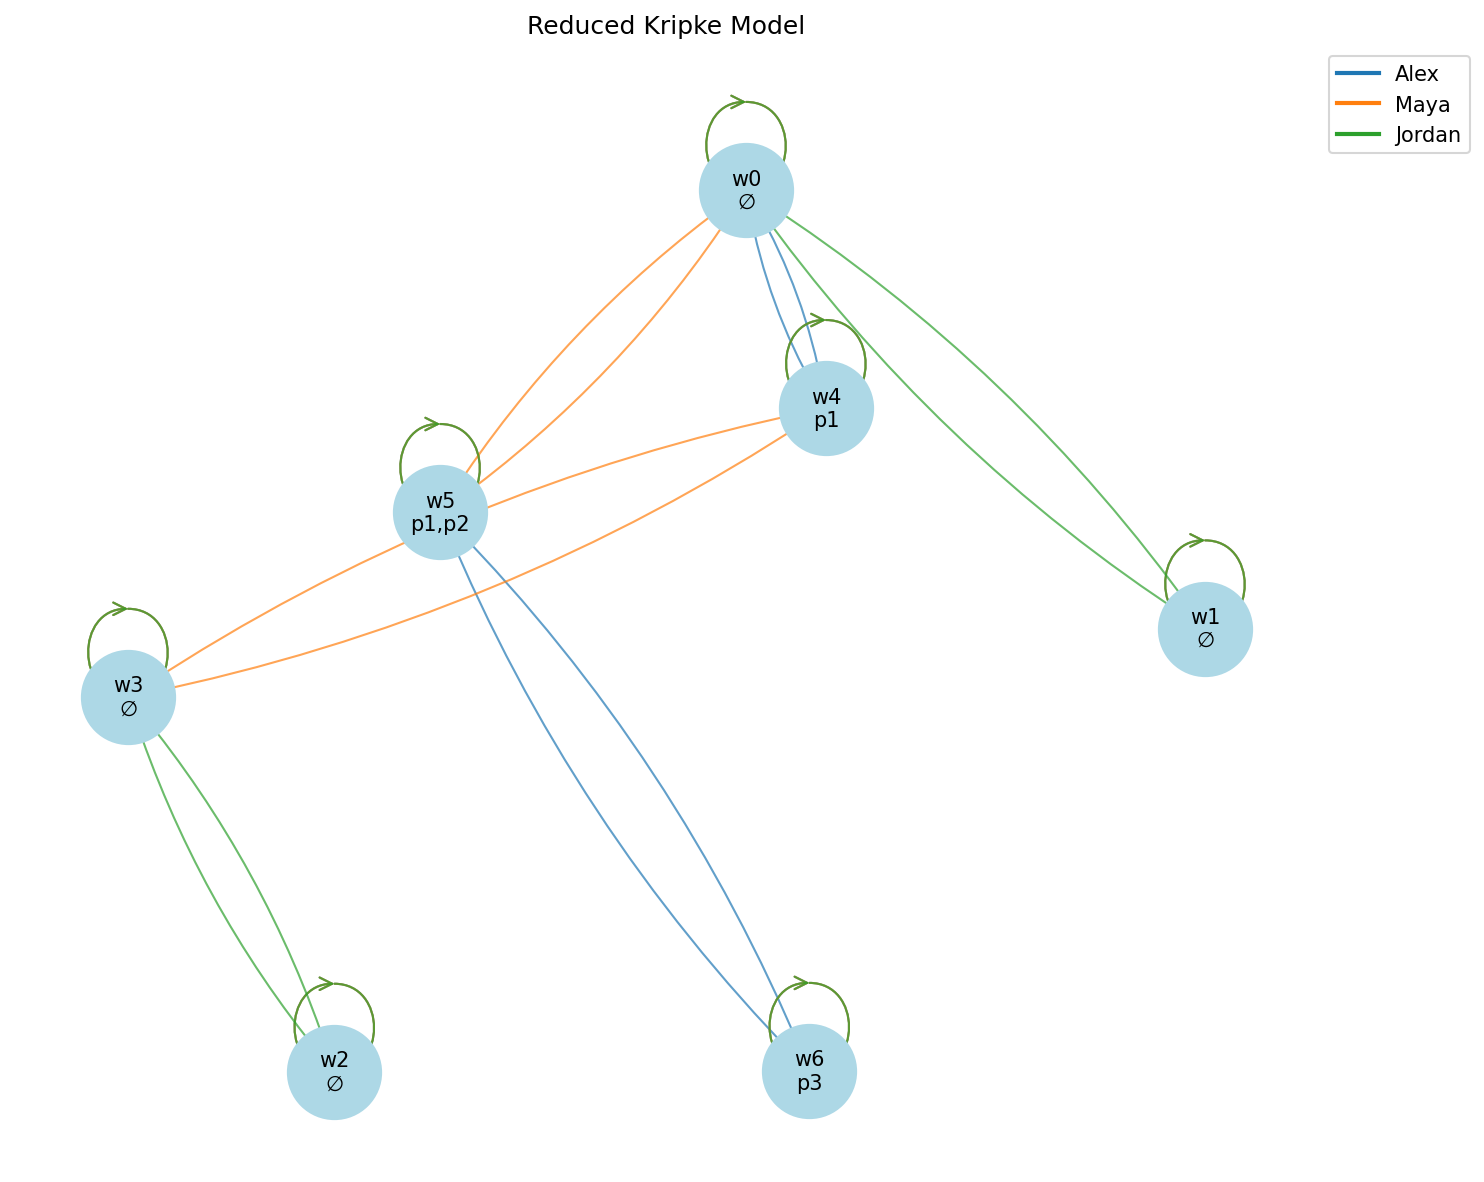
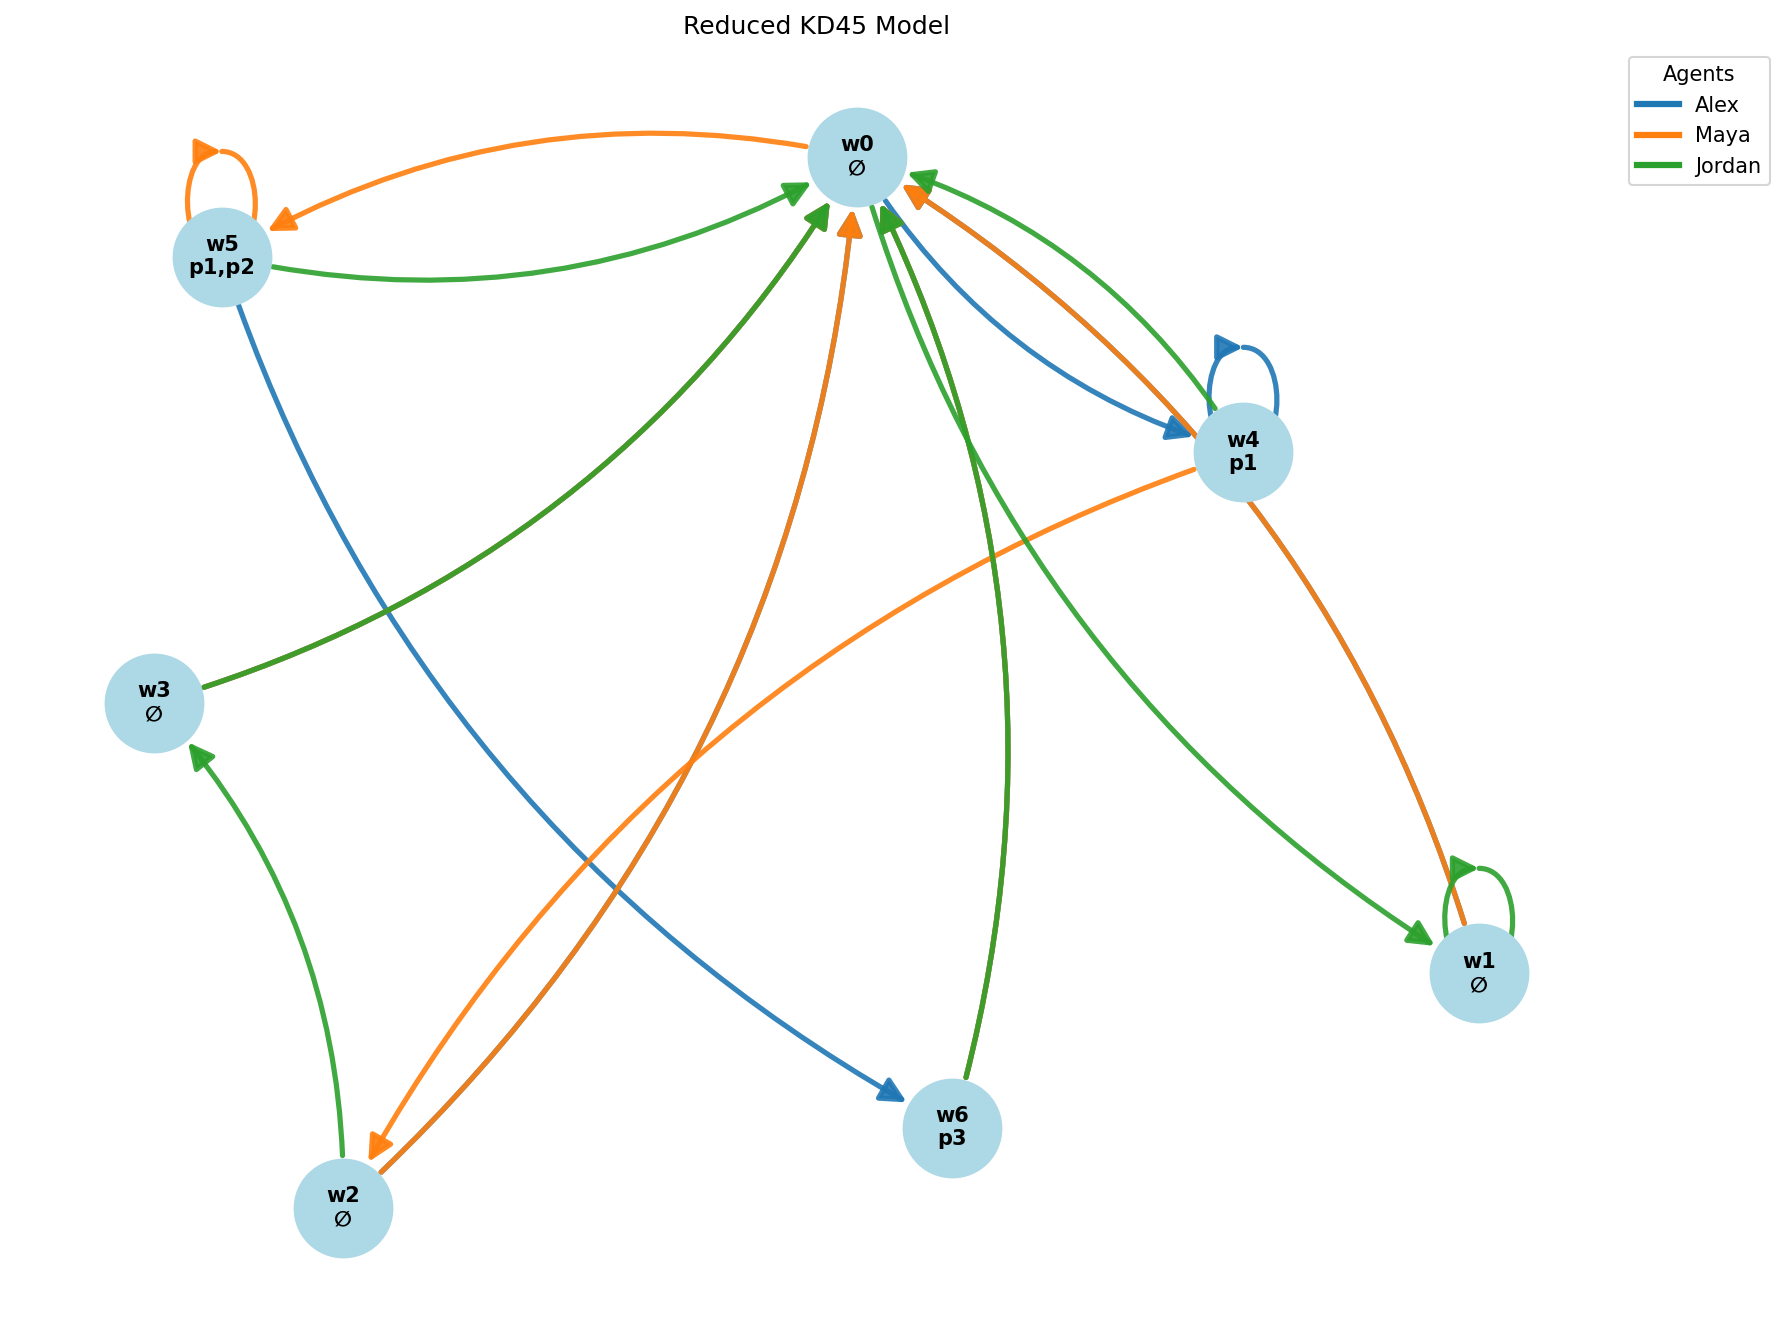
KD45 modification

diff --git a/kripke/model.py b/kripke/model.py
@@ -1,51 +1,74 @@
-from dataclasses import dataclass, field
-from typing import List, Set, Dict, Optional
-import itertools
+from dataclasses import dataclass
+from typing import List, Set, Dict
 
 @dataclass
 class KripkeModel:
-    worlds: List[int]                       
-    agents: List[str]                       
-    propositions: List[str]                 
-    relations: Dict[str, Set[tuple]]       
-    valuation: Dict[int, Set[int]]         
+    worlds: List[int]
+    agents: List[str]
+    propositions: List[str]
+    relations: Dict[str, Set[tuple]]
+    valuation: Dict[int, Set[int]]
+    enforce_frame: bool = True  
 
     def __post_init__(self):
-        self._enforce_s5()
+        if self.enforce_frame:
+            self._enforce_kd45()
 
-    def _enforce_s5(self):
+    def _enforce_kd45(self):
         for agent in self.agents:
-            rel = self.relations.get(agent, set())
-            
-            for w in self.worlds:
-                rel.add((w, w))
-            
-            symm = set((v, u) for (u, v) in rel)
-            rel.update(symm)
-            
-            closure = set(rel)
+            rel = set(self.relations.get(agent, set()))
+            all_worlds = set(self.worlds)
+
             while True:
-                new_pairs = set((u, w) for (u, v) in closure for (x, w) in closure if v == x)
-                if new_pairs.issubset(closure):
+                new_rel = set(rel)
+
+                for (u, v) in rel:
+                    for (x, w) in rel:
+                        if v == x:
+                            new_rel.add((u, w))
+
+                for (u, v) in rel:
+                    for (x, y) in rel:
+                        if u == x and v != y:
+                            new_rel.add((v, y))
+
+                if new_rel == rel:
                     break
-                closure.update(new_pairs)
-            self.relations[agent] = closure
+                rel = new_rel
+
+            worlds_with_outgoing = {u for (u, v) in rel}
+            worlds_needing_edges = all_worlds - worlds_with_outgoing
+
+            if worlds_needing_edges and all_worlds:
+                target = next(iter(all_worlds))
+                for w in worlds_needing_edges:
+                    rel.add((w, target))
+
+            self.relations[agent] = rel
 
     def world_entails(self, world: int, prop_index: int) -> bool:
         return prop_index in self.valuation.get(world, set())
 
     def check_formula(self, world: int, ast_node: 'Node') -> bool:
-        from core.ast_parser import Proposition, Not, Belief  
+        from core.ast_parser import Proposition, Not, Belief
+
         if isinstance(ast_node, Proposition):
-            idx = int(ast_node.name[1:]) 
+            idx = int(ast_node.name[1:])
             return self.world_entails(world, idx)
+
         elif isinstance(ast_node, Not):
             return not self.check_formula(world, ast_node.child)
+
         elif isinstance(ast_node, Belief):
             agent = ast_node.agent
             child = ast_node.child
-            
+
             accessible = {v for (u, v) in self.relations[agent] if u == world}
+
+            if not accessible:
+                return True
+
             return all(self.check_formula(v, child) for v in accessible)
+
         else:
             raise ValueError(f"Unknown AST node: {ast_node}")

diff --git a/kripke/visualize.py b/kripke/visualize.py
@@ -1,44 +1,64 @@
 import networkx as nx
 import matplotlib.pyplot as plt
-from matplotlib.lines import Line2D
-from kripke.model import KripkeModel
 
-def draw_kripke_model(model: KripkeModel, title: str = "Kripke Model", save_path: str = None):
+def draw_kripke_model(model, title="Kripke Model", save_path=None):
     G = nx.MultiDiGraph()
+
     for w in model.worlds:
-        true_props = sorted([f"p{i}" for i in model.valuation.get(w, set())])
-        label = f"w{w}\n{','.join(true_props) if true_props else '∅'}"
+        props = sorted([f"p{i}" for i in model.valuation.get(w, set())])
+        label = f"w{w}\n{','.join(props) if props else '∅'}"
         G.add_node(w, label=label)
 
     agent_colors = {agent: plt.cm.tab10(i) for i, agent in enumerate(model.agents)}
 
     for agent in model.agents:
         for (u, v) in model.relations[agent]:
-            G.add_edge(u, v, agent=agent, color=agent_colors[agent])
+            G.add_edge(u, v, agent=agent)
 
     pos = nx.spring_layout(G, seed=42, k=2, iterations=50)
 
-    fig, ax = plt.subplots(figsize=(10, 8))
-    nx.draw_networkx_nodes(G, pos, ax=ax, node_color='lightblue', node_size=2000)
+    plt.figure(figsize=(12, 9))
 
-    labels = nx.get_node_attributes(G, 'label')
-    nx.draw_networkx_labels(G, pos, labels, ax=ax, font_size=10)
+    nx.draw_networkx_nodes(G, pos, node_color='lightblue', node_size=2200)
 
-    legend_handles = []
     for agent, color in agent_colors.items():
-        edges = [(u, v) for (u, v, data) in G.edges(data=True) if data.get('agent') == agent]
-        if edges:
-            nx.draw_networkx_edges(G, pos, ax=ax, edgelist=edges, edge_color=color, alpha=0.7,
-                                   connectionstyle='arc3,rad=0.1', arrows=True,
-                                   arrowstyle='->', arrowsize=15)
-        legend_handles.append(
-            Line2D([0], [0], color=color, lw=2, label=agent)
+        edges = [(u, v) for (u, v, d) in G.edges(data=True) if d['agent'] == agent]
+
+        nx.draw_networkx_edges(
+            G,
+            pos,
+            edgelist=edges,
+            edge_color=[color],
+            width=2.5,              
+            alpha=0.9,
+            arrows=True,
+            arrowstyle='-|>',       
+            arrowsize=25,           
+            connectionstyle='arc3,rad=0.2', 
+            min_source_margin=25,
+            min_target_margin=25
         )
 
-    ax.legend(handles=legend_handles, loc='upper left', bbox_to_anchor=(1, 1))
-    ax.set_title(title)
-    ax.axis('off')
-    fig.tight_layout()
+    # --- подписи ---
+    nx.draw_networkx_labels(
+        G,
+        pos,
+        nx.get_node_attributes(G, 'label'),
+        font_size=10,
+        font_weight='bold'
+    )
+
+    # --- легенда ---
+    for agent, color in agent_colors.items():
+        plt.plot([], [], color=color, label=agent, linewidth=3)
+
+    plt.legend(title="Agents", loc='upper left', bbox_to_anchor=(1, 1))
+
+    plt.title(title)
+    plt.axis('off')
+    plt.tight_layout()
+
     if save_path:
-        fig.savefig(save_path, dpi=150, bbox_inches='tight')
+        plt.savefig(save_path, dpi=150, bbox_inches='tight')
+
     plt.show()

diff --git a/kripke/bisimulation.py b/kripke/bisimulation.py
@@ -3,16 +3,16 @@ from typing import List, Set, Dict, Tuple
 from kripke.model import KripkeModel
 
 def compute_bisimulation_quotient(model: KripkeModel) -> KripkeModel:
-   
     worlds = model.worlds
     agents = model.agents
+
     partition = []
     val_to_block = {}
+
     for w in worlds:
         val = frozenset(model.valuation.get(w, set()))
         if val not in val_to_block:
-            block_id = len(partition)
-            val_to_block[val] = block_id
+            val_to_block[val] = len(partition)
             partition.append({w})
         else:
             partition[val_to_block[val]].add(w)
@@ -21,9 +21,10 @@ def compute_bisimulation_quotient(model: KripkeModel) -> KripkeModel:
     while changed:
         changed = False
         new_partition = []
+
         for block in partition:
-           
-            sig_to_worlds = defaultdict(set)
+            sig_to_worlds = {}
+
             for w in block:
                 sig = []
                 for a in agents:
@@ -35,45 +36,47 @@ def compute_bisimulation_quotient(model: KripkeModel) -> KripkeModel:
                                     reachable_blocks.add(idx)
                                     break
                     sig.append(frozenset(reachable_blocks))
+
                 sig = tuple(sig)
-                sig_to_worlds[sig].add(w)
+                sig_to_worlds.setdefault(sig, set()).add(w)
+
             if len(sig_to_worlds) > 1:
                 changed = True
-                for worlds_subset in sig_to_worlds.values():
-                    new_partition.append(worlds_subset)
+                new_partition.extend(sig_to_worlds.values())
             else:
                 new_partition.append(block)
+
         partition = new_partition
 
-    block_to_new_world = {}
+    block_to_new = {}
     new_worlds = []
     new_valuation = {}
+
     for idx, block in enumerate(partition):
-        block_to_new_world[frozenset(block)] = idx
+        key = frozenset(block)
+        block_to_new[key] = idx
         new_worlds.append(idx)
+
         rep = next(iter(block))
         new_valuation[idx] = model.valuation.get(rep, set()).copy()
 
     new_relations = {a: set() for a in agents}
+
     for a in agents:
         for (u, v) in model.relations[a]:
-            for block_u in partition:
-                if u in block_u:
-                    bu = frozenset(block_u)
-                    break
-            for block_v in partition:
-                if v in block_v:
-                    bv = frozenset(block_v)
-                    break
-            nu = block_to_new_world[bu]
-            nv = block_to_new_world[bv]
-            new_relations[a].add((nu, nv))
+
+            bu = next(frozenset(b) for b in partition if u in b)
+            bv = next(frozenset(b) for b in partition if v in b)
+
+            new_relations[a].add((block_to_new[bu], block_to_new[bv]))
 
     reduced = KripkeModel(
         worlds=new_worlds,
         agents=agents,
         propositions=model.propositions,
         relations=new_relations,
-        valuation=new_valuation
+        valuation=new_valuation,
+        enforce_frame=False  
     )
+
     return reduced

diff --git a/kripke/example.py b/kripke/example.py
@@ -38,12 +38,12 @@ def main():
 
     builder = KripkeBuilder(agents, propositions, formulas)
     model = builder.model
-    print(f"Исходная модель: {len(model.worlds)} миров")
-    draw_kripke_model(model, title="Original Kripke Model", save_path="original_model.png")
+    print(f"KD45 модель: {len(model.worlds)} миров")
+    draw_kripke_model(model, title="Original KD45 Model", save_path="original_model.png")
 
     reduced = compute_bisimulation_quotient(model)
     print(f"После сокращения: {len(reduced.worlds)} миров")
-    draw_kripke_model(reduced, title="Reduced Kripke Model", save_path="reduced_model.png")
+    draw_kripke_model(reduced, title="Reduced KD45 Model", save_path="reduced_model.png")
 
     root = 0
     print("\nПроверка истинности формул в мире 0 сокращённой модели:")
